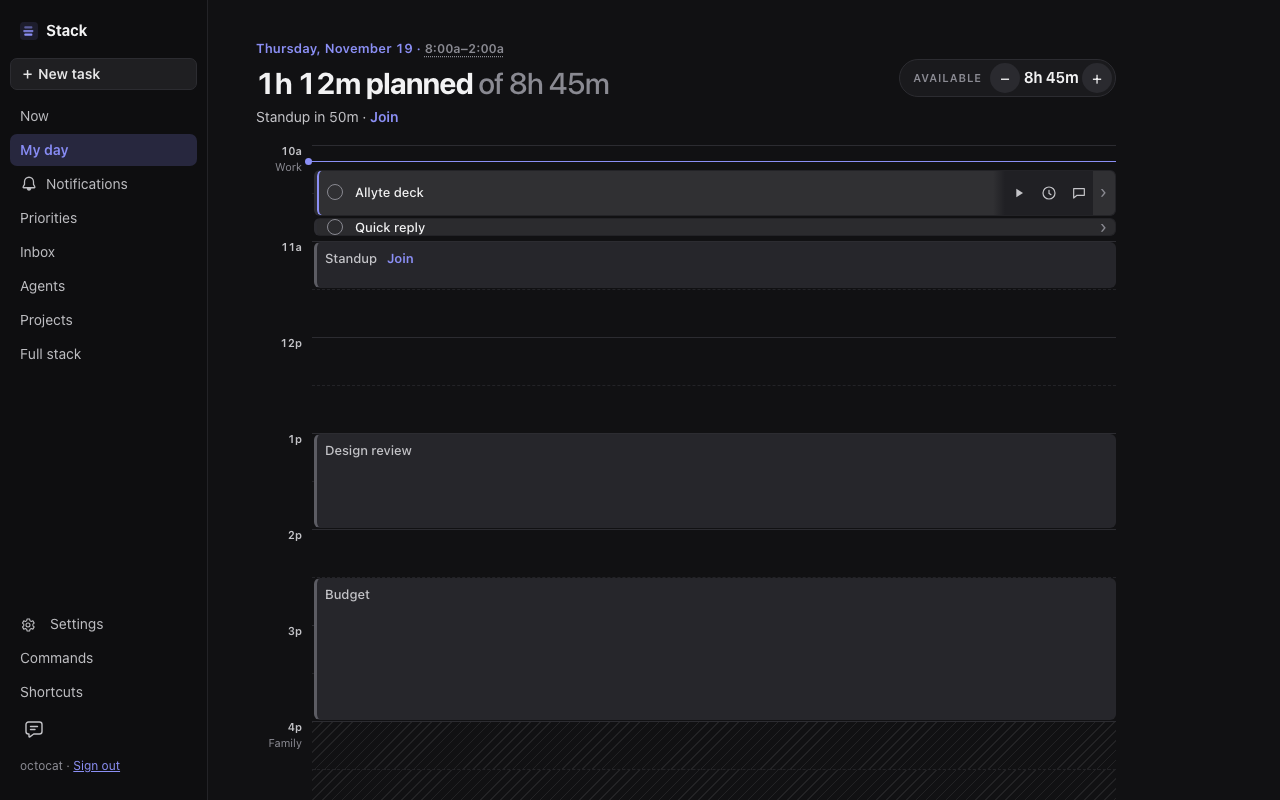
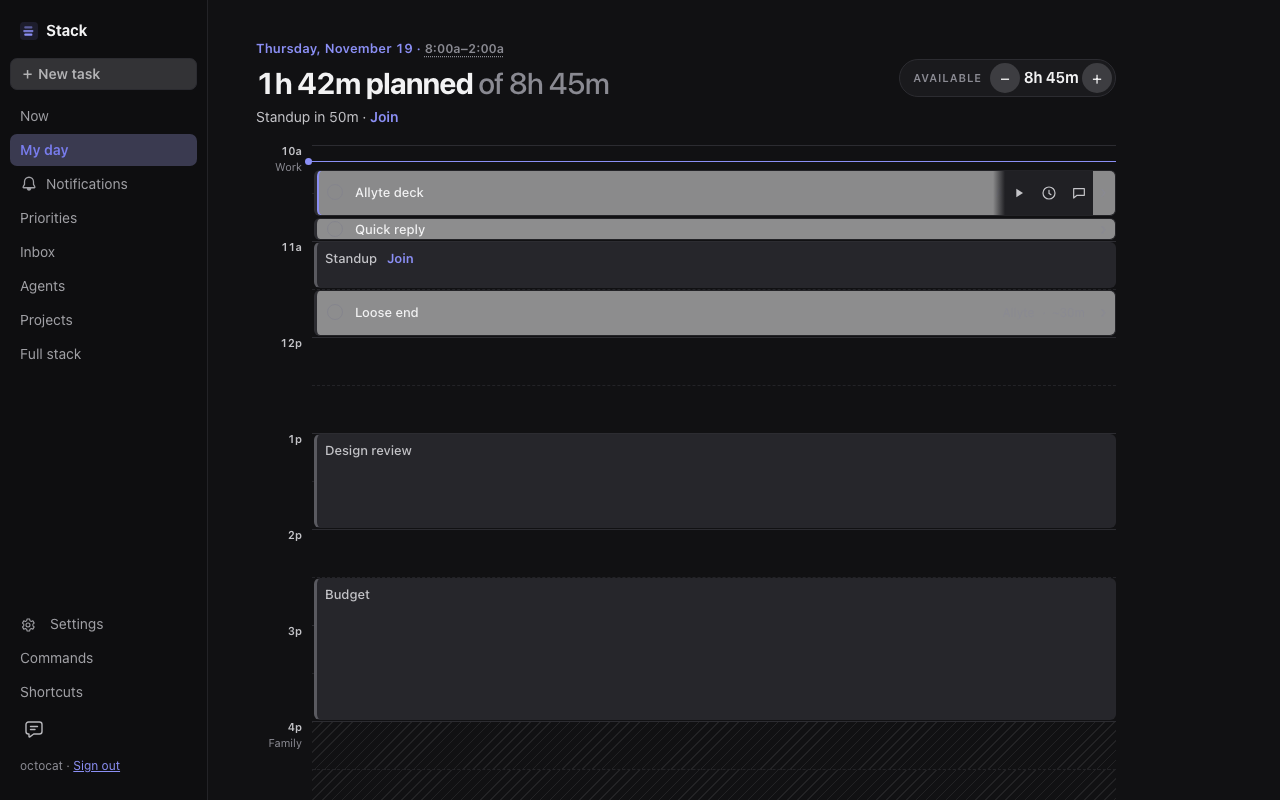
fix(my-day): Keep short blocks tappable and estimate marks visible
Review round 1. An item under 15 minutes draws at 15 minutes, so its
target stays 24 px (48 px on touch). A task block shows its start when
off the half hour and its estimate mark. Dead day-bar styles are gone.

Changed region(s): [[0.25, 0.1875, 0.875, 0.3125], [0.2188, 0.3438, 0.875, 0.4375], [0.2188, 0.0938, 0.25, 0.125]]

diff --git a/web/src/styles.css b/web/src/styles.css
@@ -287,11 +287,6 @@ a.tag.link:hover { background: var(--accent-soft); }
 .t-head h1 { font-size: 40px; line-height: 1.1; letter-spacing: -.035em; font-weight: 700; margin: 6px 0 10px; }
 .t-sub { margin: 0; display: flex; flex-wrap: wrap; gap: 4px 0; color: var(--ink2); font-size: 14px; }
 .t-sub > span + span::before { content: "·"; margin: 0 8px; color: var(--muted); }
-.day-bar { position: relative; height: 8px; border-radius: 99px; background: var(--chip); margin: 20px 0 6px; overflow: visible; }
-.day-bar i { position: absolute; top: 0; bottom: 0; background: var(--accent); opacity: .85; border-radius: 3px; border-right: 1px solid var(--bg); }
-.day-bar i:first-of-type { border-radius: 99px 3px 3px 99px; }
-.day-bar b { position: absolute; top: -4px; width: 2px; height: 16px; margin-left: -1px; background: var(--ink); border-radius: 2px; }
-.day-ends { display: flex; justify-content: space-between; margin: 0 0 4px; font-size: 11px; color: var(--muted); }
 .today .h2 { margin: 38px 0 12px; font-size: 12px; }
 
 .plan { list-style: none; margin: 0; padding: 0; position: relative; }
@@ -362,15 +357,6 @@ a.tag.link:hover { background: var(--accent-soft); }
 .main:has(.today) { --measure: 1120px; }
 .today { max-width: var(--measure); }
 .t-head h1 { font-size: 30px; letter-spacing: -.03em; margin: 4px 0 8px; }
-.t-sub .jump { background: none; border: 0; padding: 0; color: var(--ink2); font: inherit; text-decoration: underline; text-decoration-color: var(--line); text-underline-offset: 3px; }
-.t-sub .jump:hover { color: var(--accent); text-decoration-color: var(--accent); }
-.t-sub > .jump::before { content: "·"; margin: 0 8px; color: var(--muted); display: inline-block; text-decoration: none; }
-.t-sub > span + .jump::before { margin-left: 0; }
-.day-bar { background: color-mix(in srgb, var(--muted) 22%, transparent); }
-.day-bar b { width: 10px; height: 10px; top: -1px; margin-left: -5px; border-radius: 50%; background: var(--ink); box-shadow: 0 0 0 3px var(--bg); }
-.day-bar b em { position: absolute; top: -20px; left: 50%; transform: translateX(-50%); font: 600 10.5px/1 var(--font, inherit); font-style: normal; color: var(--ink); white-space: nowrap; }
-.day-bar b.edge-l em { left: 50%; transform: none; }
-.day-bar b.edge-r em { left: auto; right: 50%; transform: none; }
 .t-cols { display: block; }
 @media (min-width: 1100px) { .t-cols { display: grid; grid-template-columns: minmax(0, 1fr) 380px; gap: 0 48px; align-items: start; } .t-side { position: sticky; top: 20px; } .t-side .h2:first-child { margin-top: 38px; } }
 @media (min-width: 1100px) { .t-side > :first-child.h2 { margin-top: 0; } }
@@ -378,7 +364,6 @@ a.tag.link:hover { background: var(--accent-soft); }
 .block:not(.lead) .what:hover { background: var(--hover); border-radius: 8px; }
 .block:not(.lead) .what::before { top: 13px; }
 .block { padding-bottom: 0; }
-.block:not(.lead) { min-height: clamp(44px, calc(var(--min) * .9px), 96px); }
 .what-title { display: -webkit-box; -webkit-line-clamp: 2; -webkit-box-orient: vertical; overflow: hidden; }
 .what-meta .due.stale { color: var(--muted); font-style: italic; }
 .card { border-radius: 14px; padding: 14px 16px; }
@@ -409,7 +394,6 @@ a.tag.link:hover { background: var(--accent-soft); }
 }
 .what-title code, .card-title code, .agent-title code { white-space: normal; overflow-wrap: anywhere; }
 .t-sub { gap: 4px 0; }
-.t-sub > .jump::before, .t-sub > span + .jump::before { margin: 0 8px; }
 .block.lead .what-title { -webkit-line-clamp: 3; }
 @media (max-width: 719px) {
   .tabbar .tab { font-size: 12.5px; padding: 0 4px; text-align: center; }
@@ -427,7 +411,6 @@ a.tag.link:hover { background: var(--accent-soft); }
 .t-sub .warn { color: var(--warn); font-weight: 600; }
 .t-sub .quiet { color: var(--muted); }
 .t-sub > span + span::before { content: "·"; margin: 0 8px; color: var(--muted); }
-.day-bar s { position: absolute; top: -3px; bottom: -3px; border-radius: 99px; background: color-mix(in srgb, var(--accent) 12%, transparent); border: 1px dashed color-mix(in srgb, var(--accent) 45%, transparent); text-decoration: none; }
 .nofit { margin: 18px 0 0 76px; border-top: 1px dashed var(--line); padding-top: 12px; }
 .nofit-head { display: flex; align-items: center; justify-content: space-between; gap: 8px; }
 .nofit h3 { margin: 0; font-size: 12px; text-transform: uppercase; letter-spacing: .08em; color: var(--warn); font-weight: 650; }
@@ -479,7 +462,6 @@ a.tag.link:hover { background: var(--accent-soft); }
   .nofit-proj { display: none; }
   .reveal { min-height: 44px; }
 }
-.t-head .day-bar { margin-top: 30px; }
 .nofit li.risk .nofit-title { color: var(--ink); font-weight: 550; }
 .nofit-proj .due { margin-right: 8px; font-size: 11.5px; }
 .nofit-proj .due.late { color: var(--warn); }
@@ -520,9 +502,6 @@ a.tag.link:hover { background: var(--accent-soft); }
 .email-open:hover { text-decoration: underline; }
 .plan .meeting .when, .plan .email-block .when { text-align: right; font-weight: 600; font-size: 12.5px; }
 .plan .meeting .when small, .plan .email-block .when small { display: block; font-weight: 400; color: var(--muted); }
-.day-bar u { position: absolute; top: 0; bottom: 0; text-decoration: none; border-radius: 2px; background: repeating-linear-gradient(135deg, var(--muted) 0 3px, transparent 3px 6px); opacity: .7; }
-.day-bar u.personal { background: color-mix(in srgb, var(--muted) 30%, transparent); opacity: 1; } /* @req FR:home/day.personal */
-.day-bar i.mail { background: color-mix(in srgb, var(--accent) 45%, transparent); }
 .allday { margin: -4px 0 10px; font-size: 12.5px; color: var(--ink2); }
 .cal-note { margin: -4px 0 10px; font-size: 12px; color: var(--muted); font-style: italic; }
 @media (max-width: 799px) { .plan .meeting, .plan .email-block { grid-template-columns: 44px minmax(0, 1fr); gap: 0 10px; } }
@@ -544,7 +523,6 @@ a.tag.link:hover { background: var(--accent-soft); }
 .t-date .allday { color: var(--ink2); font-weight: 500; }
 .next-meeting a { color: var(--accent); text-decoration: none; font-weight: 600; }
 .next-meeting kbd { margin-left: 2px; }
-@media (prefers-color-scheme: dark) { .day-bar u { opacity: .9; } }
 @media (max-width: 799px) {
   .plan .meeting, .plan .email-block { grid-template-columns: 44px minmax(0, 1fr); gap: 0 10px; }
   .plan .meeting::before, .plan .email-block::before { left: 49px; }

diff --git a/web/e2e/myday.spec.ts b/web/e2e/myday.spec.ts
@@ -134,7 +134,7 @@ test.describe('My day v2', () => {
   test('day grid: every 30-minute row has one height; a 60-minute block is exactly double; empty slots stay', async ({ page }, info) => {
     const ev = (id: string, h: number, m: number, min: number) => ({ id, subject: id, start: at(h, m).toISOString(), end: new Date(at(h, m).getTime() + min * 60_000).toISOString(), allDay: false, showAs: 'busy', cancelled: false, online: id === 'Standup', ...(id === 'Standup' ? { joinUrl: 'https://teams.example.test/j' } : {}) });
     await page.clock.install({ time: at(10, 10) });
-    const tasks = [row('allyte:1', 'Allyte deck 🟢', 'allyte'), row('allyte:2', 'Quick reply 🔹', 'allyte'), row('stack:1', 'Stack fix 🟢', 'stack')];
+    const tasks = [row('allyte:1', 'Allyte deck 🟢', 'allyte'), row('allyte:2', 'Quick reply 🔹', 'allyte'), row('allyte:3', 'Loose end', 'allyte'), row('stack:1', 'Stack fix 🟢', 'stack')];
     const m = await mockApi(page, { tasks, projects: PROJECTS as never });
     m.schedule = schedule();
     m.events = [ev('Standup', 11, 0, 30), ev('Design review', 13, 0, 60), ev('Budget', 14, 30, 90)] as never;
@@ -153,7 +153,8 @@ test.describe('My day v2', () => {
     expect(await h('.meeting', 'Design review')).toBe(slot * 2);
     expect(await h('.meeting', 'Budget')).toBe(slot * 3);
     expect(await h('.block', 'Allyte deck')).toBe(slot);
-    expect(await h('.block.short', 'Quick reply')).toBeCloseTo(slot * 0.4, 1); // 12 min: one line
+    expect(await h('.block.short', 'Quick reply')).toBe(slot / 2); // 12 min draws as 15: the target stays 24 px (48 px on touch)
+    await expect(plan.locator('.block').filter({ hasText: 'Loose end' }).locator('.what-meta')).toContainText('~30m'); // an estimate keeps its mark @req FR:web-app/today.plan
     await expect(plan.locator('.block.short .row-acts')).toBeHidden();
     // A block sits at its real time: Standup starts 2 rows below the 10:00a grid top.
     const top = (await page.locator('.ui-slot').first().boundingBox())!.y;

diff --git a/web/src/ui/DayGrid.tsx b/web/src/ui/DayGrid.tsx
@@ -8,11 +8,13 @@ import './ui.css';
 
 /** Minutes in one row. */
 export const SLOT_MIN = 30;
+/** The least height of an item, in rows (15 minutes): its target stays 24 px, 48 px on touch. */
+export const MIN_SIZE = 0.5;
 
 export interface GridSpan { /** Start, in minutes after midnight. */ start: number; /** End, in minutes after midnight. */ end: number }
 export interface GridItem extends GridSpan { key: string; node: ComponentChild }
 export interface GridBand extends GridSpan { label: string; /** Tint the band's rows (time that is not for work). */ muted?: boolean }
-/** Where an item sits: `top` and `size` in rows (30 minutes is 1); `lane` of `lanes` when items overlap. */
+/** Where an item sits: `top` and `size` in rows (30 minutes is 1, never under `MIN_SIZE`); `lane` of `lanes` when items overlap in time. */
 export interface Placed<T> { item: T; top: number; size: number; lane: number; lanes: number }
 
 /**
@@ -33,7 +35,7 @@ export function placeItems<T extends GridSpan>(items: T[], from: number, to: num
     const taken = new Set(group.filter((g) => g.z > x.a).map((g) => g.p.lane));
     let lane = 0;
     while (taken.has(lane)) lane++;
-    const p: Placed<T> = { item: x.item, top: (x.a - from) / SLOT_MIN, size: (x.z - x.a) / SLOT_MIN, lane, lanes: 1 };
+    const p: Placed<T> = { item: x.item, top: (x.a - from) / SLOT_MIN, size: Math.max(MIN_SIZE, (x.z - x.a) / SLOT_MIN), lane, lanes: 1 };
     group.push({ p, z: x.z });
     groupEnd = Math.max(groupEnd, x.z);
     out.push(p);
@@ -59,7 +61,7 @@ export function DayGrid({ label, from, to, items, bands = [], now, testid }: {
   const slots = Array.from({ length: (end - start) / SLOT_MIN }, (_, i) => start + i * SLOT_MIN);
   const bandAt = (m: number) => bands.find((b) => b.start < m + SLOT_MIN && b.end > m);
   return (
-    <div class="ui-grid" style={{ '--slots': slots.length }}>
+    <div class="ui-grid">
       <ol class="ui-slots" aria-hidden="true">
         {slots.map((m, i) => {
           const band = bandAt(m);

diff --git a/web/src/views.tsx b/web/src/views.tsx
@@ -578,13 +578,15 @@ function PlanBlock({ b, p, busy, onAct, message }: { b: Block; p: RowProps; busy
   const who = message?.name(b.task) ?? 'the agent';
   return (
     <div class={`block${isCursor ? ' cursor' : ''}${b.end - b.start < SLOT_MIN ? ' short' : ''}`} data-ref={ref}>
-      <time class={`when${b.start % SLOT_MIN ? ' off' : ''}`}>{clock(b.start)}<small title={b.assumed ? 'No effort set; 30 min assumed' : undefined}>{b.assumed ? '~' : ''}{span(b.end - b.start)}{b.partial ? '+' : ''}</small></time>
+      <time class="when">{clock(b.start)}<small title={b.assumed ? 'No effort set; 30 min assumed' : undefined}>{b.assumed ? '~' : ''}{span(b.end - b.start)}{b.partial ? '+' : ''}</small></time>
       <div class="what" onClick={(e) => { if ((e.target as HTMLElement).closest('a')) return; open(); }} onDblClick={open}>
         <button type="button" class="tick" aria-label="Mark done" disabled={busy} onClick={(e) => { e.stopPropagation(); onAct('done', ref); }}><span class="box" /></button>
         <div class="what-body">
           <p class="what-title"><button type="button" class="row-open" aria-label={`Open ${r.title || b.task.text}`} onClick={(e) => { e.stopPropagation(); open(); }} onFocus={() => p.onCursor(ref)}><Md text={r.title || b.task.text} links={false} /></button><TitleLinks text={r.title || b.task.text} project={b.task.project} /></p>
           <p class="what-meta">
             <span>{p.titles.get(b.task.project) ?? b.task.project}</span>
+            {b.start % SLOT_MIN > 0 && <span aria-hidden="true">{clock(b.start)}</span>}
+            {(b.assumed || b.partial) && <span aria-hidden="true" title={b.assumed ? 'No effort set; 30 min assumed' : 'Capped at 2 h'}>{b.assumed ? '~' : ''}{span(b.end - b.start)}{b.partial ? '+' : ''}</span>}
             <DueNote due={r.due} />
             {chipsOf(b.task.text).filter((c) => c.group === 'status').map((c) => <Chip key={c.group} {...c} onPick={(g) => p.onPick([ref], g)} />)}
             <Tags r={r} />

diff --git a/web/tests/ui-kit.test.tsx b/web/tests/ui-kit.test.tsx
@@ -166,15 +166,17 @@ describe('Tabs and SplitView', () => {
 
 // @req FR:ui-kit/daygrid
 describe('DayGrid', () => {
-  const it30 = { key: 'a', start: 600, end: 630 }, it60 = { key: 'b', start: 660, end: 720 }, it15 = { key: 'c', start: 735, end: 750 };
+  const it30 = { key: 'a', start: 600, end: 630 }, it60 = { key: 'b', start: 660, end: 720 }, it15 = { key: 'c', start: 735, end: 750 }, it12 = { key: 'd', start: 750, end: 762 };
   it('placeItems: size is in proportion to length, top to start', () => {
-    const p = placeItems([it60, it30, it15], 600, 780);
-    expect(p.map((x) => [x.item.key, x.top, x.size])).toEqual([['a', 0, 1], ['b', 2, 2], ['c', 4.5, 0.5]]);
+    const p = placeItems([it60, it30, it15, it12], 600, 780);
+    // an item under 15 minutes keeps the height of 15 minutes, so its target stays usable; lanes follow real times
+    expect(p.map((x) => [x.item.key, x.top, x.size])).toEqual([['a', 0, 1], ['b', 2, 2], ['c', 4.5, 0.5], ['d', 5, 0.5]]);
     expect(p.every((x) => x.lane === 0 && x.lanes === 1)).toBe(true);
   });
   it('placeItems: clips to the span and drops items outside it', () => {
     const p = placeItems([{ key: 'early', start: 540, end: 630 }, { key: 'late', start: 760, end: 840 }, { key: 'out', start: 900, end: 930 }], 600, 780);
     expect(p.map((x) => [x.item.key, x.top, x.size])).toEqual([['early', 0, 1], ['late', 16 / 3, 2 / 3]]);
+    expect(placeItems([{ key: 'x', start: 600, end: 612 }, { key: 'y', start: 612, end: 642 }], 600, 780).map((x) => [x.lane, x.lanes])).toEqual([[0, 1], [0, 1]]);
   });
   it('placeItems: items that overlap sit side by side; later ones get the full width again', () => {
     const p = placeItems([{ key: 'a', start: 600, end: 660 }, { key: 'b', start: 630, end: 690 }, { key: 'c', start: 660, end: 690 }, { key: 'd', start: 720, end: 750 }], 600, 780);

diff --git a/web/src/myday.css b/web/src/myday.css
@@ -113,7 +113,6 @@ section.today .ui-grid .m-line .join { font-weight: 600; text-decoration: none; 
 /* A start that is not on a half hour shows in the block. */
 section.today .ui-grid .when.off { position: static; width: auto; height: auto; clip-path: none; float: right; display: block; font-size: 11px; font-weight: 500; color: var(--muted); padding: 5px 8px 0 0; }
 section.today .ui-grid .when.off small { display: none; }
-section.today .ui-grid .block .when.off { display: none; }
 @media (max-width: 800px), (hover: none) {
   section.today .ui-grid .block .what { padding: 2px 2px 0 2px; }
   section.today .ui-grid .block:not(.short) .what-title { white-space: nowrap; }

diff --git a/.xe/features/home/spec.md b/.xe/features/home/spec.md
@@ -39,11 +39,11 @@ Home itself (the one thing, fit, up next, projects, countdowns) is `FR:web-app/h
 
 ### FR:myday: My day (the schedule)
 
-- **FR:myday.timeline** (P1): My day (`g t`) is a day grid (`FR:ui-kit/daygrid`) of 30-minute rows, from the half hour that holds now (wake when the day has not started) to bed or the last planned end. Every row has the same height, and an empty slot is an empty row. Meetings, planned tasks and the email block sit at their real start, with a height in proportion to their length: 30 minutes is one row, 60 minutes is exactly two. A row under way starts at the top of the grid. The time column names each hour; a schedule block's label (`Work`, `Family`) sits in the time column at its first row, and personal time has a muted tint. A now line marks the current time. A block shows its own start time only when it does not start on a half hour
-- **FR:myday.short** (P2): A task block shorter than 30 minutes is one line: the done circle and the title. Its other actions are in the task detail
+- **FR:myday.timeline** (P1): My day (`g t`) is a day grid (`FR:ui-kit/daygrid`) of 30-minute rows, from the half hour that holds now (wake when the day has not started) to bed or the last planned end. Every row has the same height, and an empty slot is an empty row. Meetings, planned tasks and the email block sit at their real start, with a height in proportion to their length: 30 minutes is one row, 60 minutes is exactly two. A row under way starts at the top of the grid. The time column names each hour; a schedule block's label (`Work`, `Family`) sits in the time column at its first row, and personal time has a muted tint. A now line marks the current time. A block shows its own start time only when it does not start on a half hour, and a task block keeps its estimate mark (`~30m`, `2h+`; `FR:web-app/today.plan`). Assistive tech reads every block's start and length
+- **FR:myday.short** (P2): A task block shorter than 30 minutes is one line: the done circle and the title. Its other actions are in the task detail. It is never drawn under 15 minutes high
 - **FR:myday.header** (P1): The My day header is the date line, the headline (`{planned} of {available}`), the Available control, and one line that shows only what needs action: at-risk tasks that do not fit, `No calendar`, and the next meeting with `Join`. It has no day bar, no free or meeting totals, and no jump links
 - **FR:myday.overflow** (P1): What does not fit is one collapsed line at the end (`{n} don't fit`, plus `· {k} due soon` in the warning color when any are at risk); expanded it lists at-risk tasks first (12 at most) then `{n} later`
-- **FR:myday.actions** (P1): Every task row has one-tap Done, Start, Defer 2h, and Message `<agent>` (icon buttons with labels and no key badges; 44 px targets on touch). One click or tap on the row opens the task detail (`FR:task-detail-design/detail.open`). Keys work on the cursor row: `s`, `d`, `n`, `z`, `a`, Enter
+- **FR:myday.actions** (P1): Every task row of 30 minutes or more has one-tap Done, Start, Defer 2h, and Message `<agent>`; a shorter one has Done (`FR:myday.short`) (icon buttons with labels and no key badges; 44 px targets on touch). One click or tap on the row opens the task detail (`FR:task-detail-design/detail.open`). Keys work on the cursor row: `s`, `d`, `n`, `z`, `a`, Enter
 - **FR:myday.quiet** (P2): Needs-you cards and AI team leave the top of the view: they sit below the timeline behind one summary line (`2 to decide · 1 CI failing`) until the Asks view carries them
 
 ## Dependencies

diff --git a/.xe/features/ui-kit/spec.md b/.xe/features/ui-kit/spec.md
@@ -51,7 +51,7 @@ The owner needs every list view to look and act the same so that he reads a PR, 
 
 ### FR:daygrid: Day grid
 
-- **FR:daygrid** (P1): `DayGrid` shows a span of a day as rows of 30 minutes. Every row has the same height (`--ui-slot`: 48 px, 96 px on touch), and a row with no item is empty. The time column names each hour (`10a`). An item sits at its start time with a height in proportion to its length, so 30 minutes is one row and 60 minutes is exactly two; an item is clipped to the grid span. Items that overlap in time sit side by side in lanes. A band labels a time range in the time column at its first row; a `muted` band tints its rows. `now` draws one line at that time when it is inside the span. Items are a list in time order; the rows are decoration, hidden from assistive tech. `placeItems` is the pure layout
+- **FR:daygrid** (P1): `DayGrid` shows a span of a day as rows of 30 minutes. Every row has the same height (`--ui-slot`: 48 px, 96 px on touch), and a row with no item is empty. The time column names each hour (`10a`). An item sits at its start time with a height in proportion to its length, so 30 minutes is one row and 60 minutes is exactly two; an item is clipped to the grid span. An item under 15 minutes has the height of 15 minutes, so its target is never under 24 px (48 px on touch). Items that overlap in time sit side by side in lanes. A band labels a time range in the time column at its first row; a `muted` band tints its rows. `now` draws one line at that time when it is inside the span. Items are a list in time order; the rows are decoration, hidden from assistive tech. `placeItems` is the pure layout
 
 ### FR:a11y: Access
 
